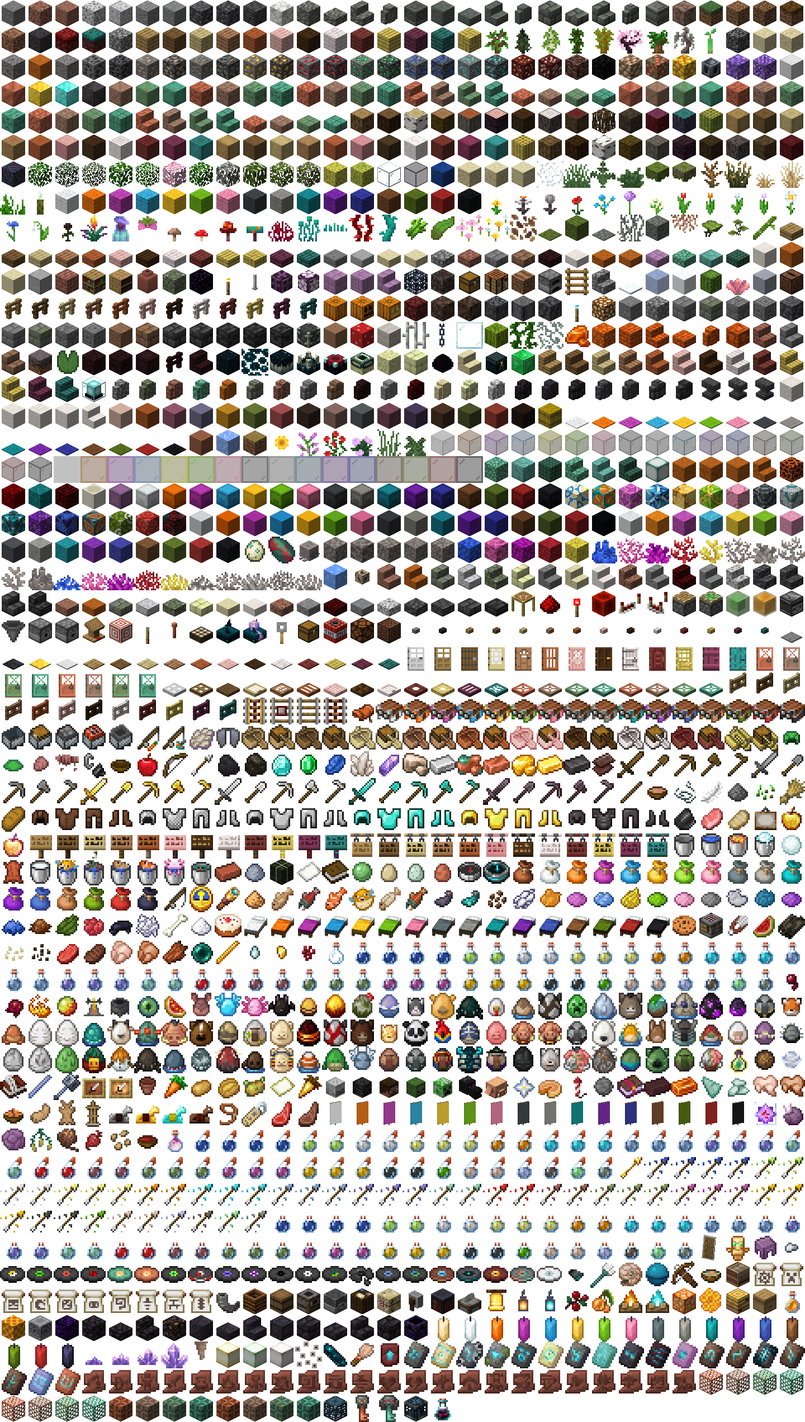
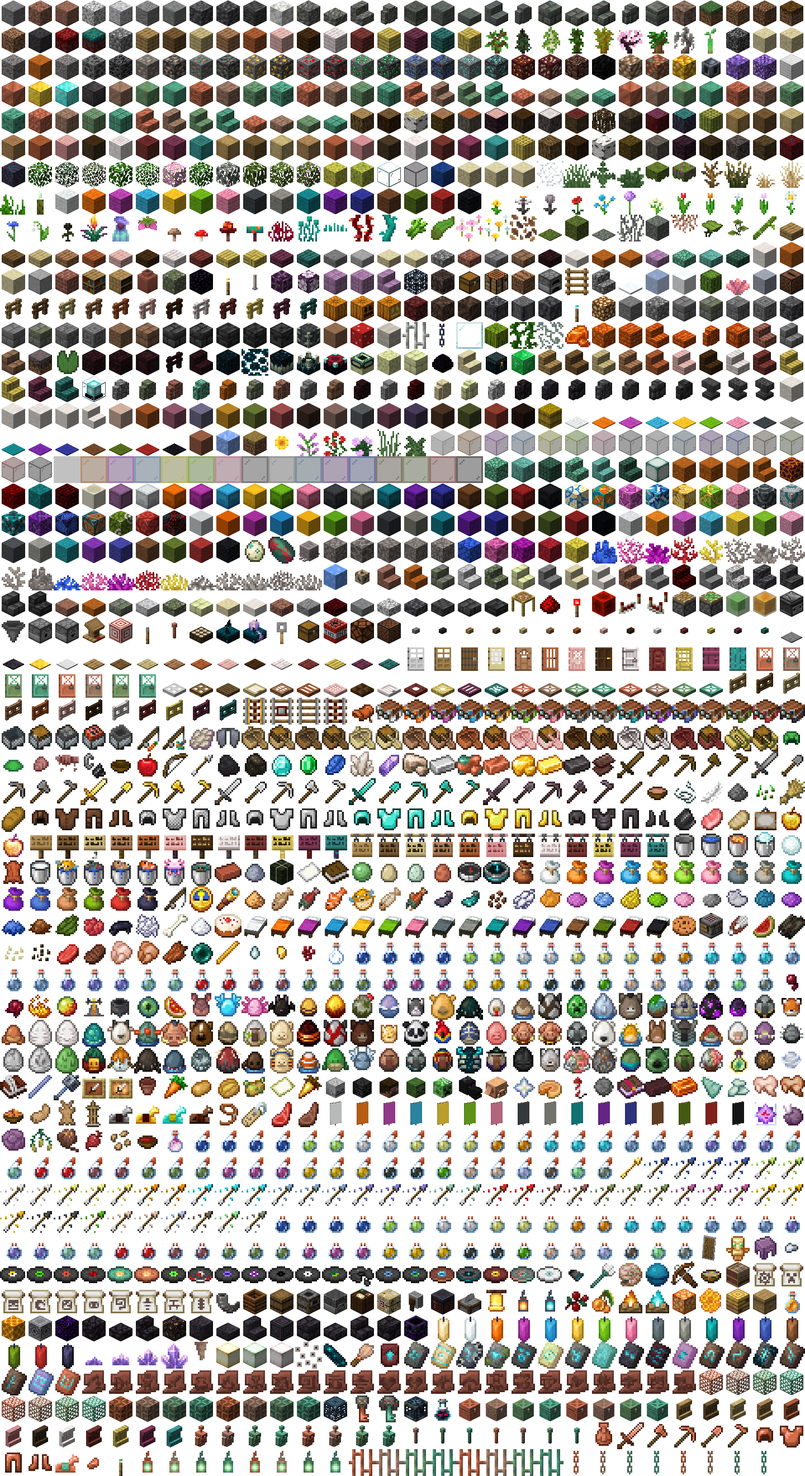
Client: Add items

diff --git a/client/src/common/constants/item.constant.ts b/client/src/common/constants/item.constant.ts
@@ -1576,4 +1576,76 @@ export const items = [
   'ominous_trial_key',
   'vault',
   'ominous_bottle',
+  'copper_chest',
+  'exposed_copper_chest',
+  'weathered_copper_chest',
+  'oxidized_copper_chest',
+  'waxed_copper_chest',
+  'waxed_exposed_copper_chest',
+  'waxed_weathered_copper_chest',
+  'waxed_oxidized_copper_chest',
+  'oak_shelf',
+  'spruce_shelf',
+  'birch_shelf',
+  'jungle_shelf',
+  'acacia_shelf',
+  'cherry_shelf',
+  'dark_oak_shelf',
+  'pale_oak_shelf',
+  'mangrove_shelf',
+  'bamboo_shelf',
+  'crimson_shelf',
+  'warped_shelf',
+  'copper_golem_statue',
+  'exposed_copper_golem_statue',
+  'weathered_copper_golem_statue',
+  'oxidized_copper_golem_statue',
+  'waxed_copper_golem_statue',
+  'waxed_exposed_copper_golem_statue',
+  'waxed_weathered_copper_golem_statue',
+  'waxed_oxidized_copper_golem_statue',
+  'exposed_lightning_rod',
+  'weathered_lightning_rod',
+  'oxidized_lightning_rod',
+  'waxed_lightning_rod',
+  'waxed_exposed_lightning_rod',
+  'waxed_weathered_lightning_rod',
+  'waxed_oxidized_lightning_rod',
+  'copper_golem_spawn_egg',
+  'copper_sword',
+  'copper_axe',
+  'copper_pickaxe',
+  'copper_shovel',
+  'copper_hoe',
+  'copper_helmet',
+  'copper_chestplate',
+  'copper_leggings',
+  'copper_boots',
+  'copper_horse_armor',
+  'copper_nugget',
+  'copper_torch',
+  'copper_lantern',
+  'exposed_copper_lantern',
+  'weathered_copper_lantern',
+  'oxidized_copper_lantern',
+  'waxed_copper_lantern',
+  'waxed_exposed_copper_lantern',
+  'waxed_weathered_copper_lantern',
+  'waxed_oxidized_copper_lantern',
+  'copper_bars',
+  'exposed_copper_bars',
+  'weathered_copper_bars',
+  'oxidized_copper_bars',
+  'waxed_copper_bars',
+  'waxed_exposed_copper_bars',
+  'waxed_weathered_copper_bars',
+  'waxed_oxidized_copper_bars',
+  'copper_chain',
+  'exposed_copper_chain',
+  'weathered_copper_chain',
+  'oxidized_copper_chain',
+  'waxed_copper_chain',
+  'waxed_exposed_copper_chain',
+  'waxed_weathered_copper_chain',
+  'waxed_oxidized_copper_chain',
 ];
